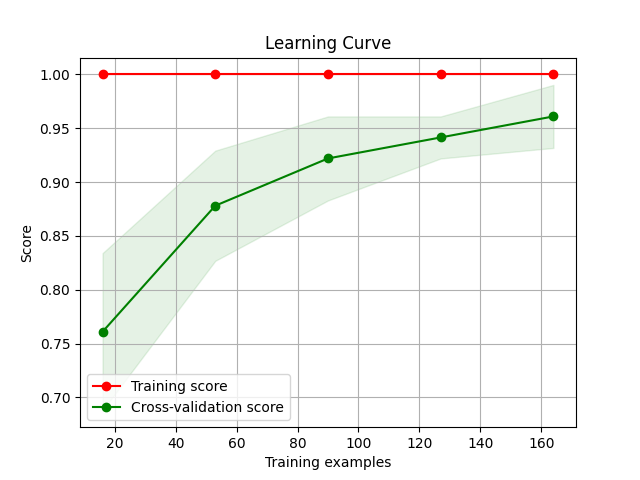
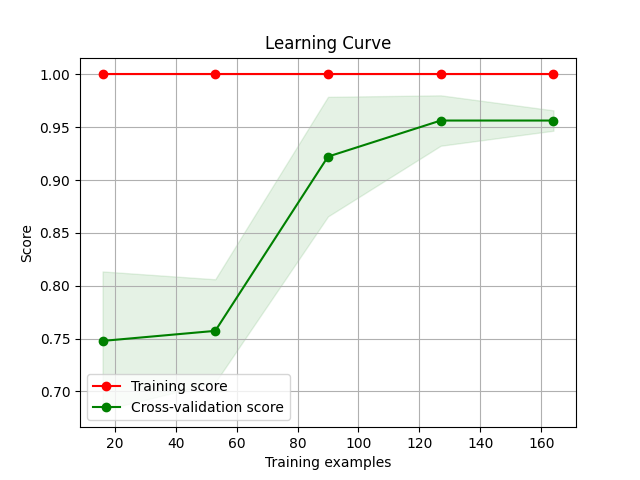
Updated

Changed region(s): [[0.0625, 0.1562, 0.9062, 0.7812], [0.4688, 0.8125, 0.9062, 0.8438], [0.0625, 0.8125, 0.125, 0.8438]]

diff --git a/main.py b/main.py
@@ -53,7 +53,7 @@ def main():
     model_evaluation.evaluate_model(best_model, X_test, y_test)
 
     # Perform cross-validation
-    mean_cv_score, std_cv_score = model_validation.cross_validate_model(X, y, random_seed)
+    mean_cv_score, std_cv_score = model_validation.cross_validate_model(X_train_smote, y_train_smote, random_seed)
     print(f'\nMean cross-validation accuracy: {mean_cv_score:.4f} ± {std_cv_score:.4f}')
 
      # Plot learning curve
